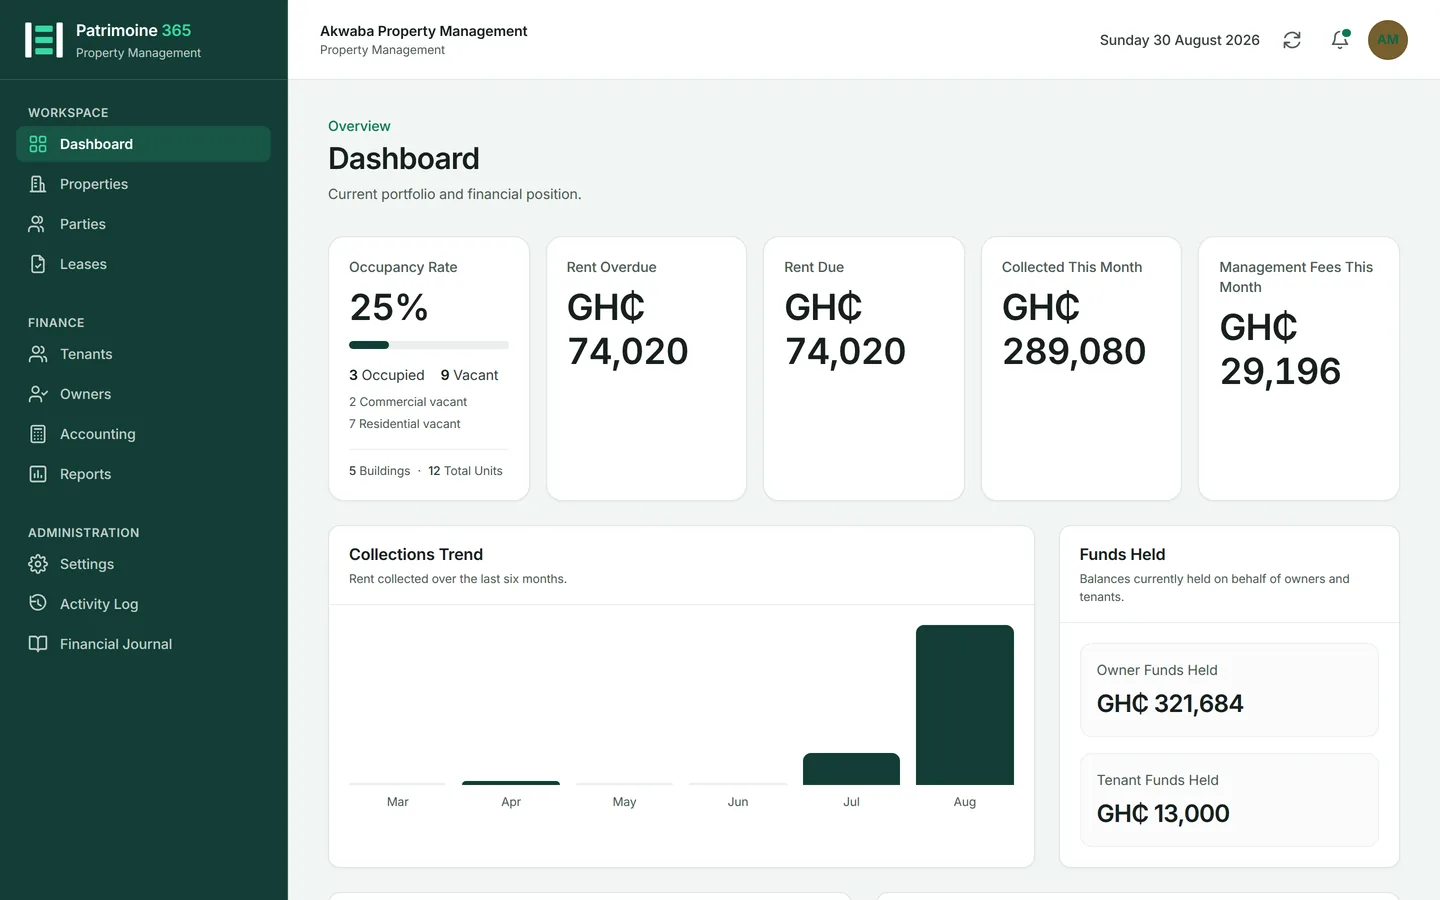
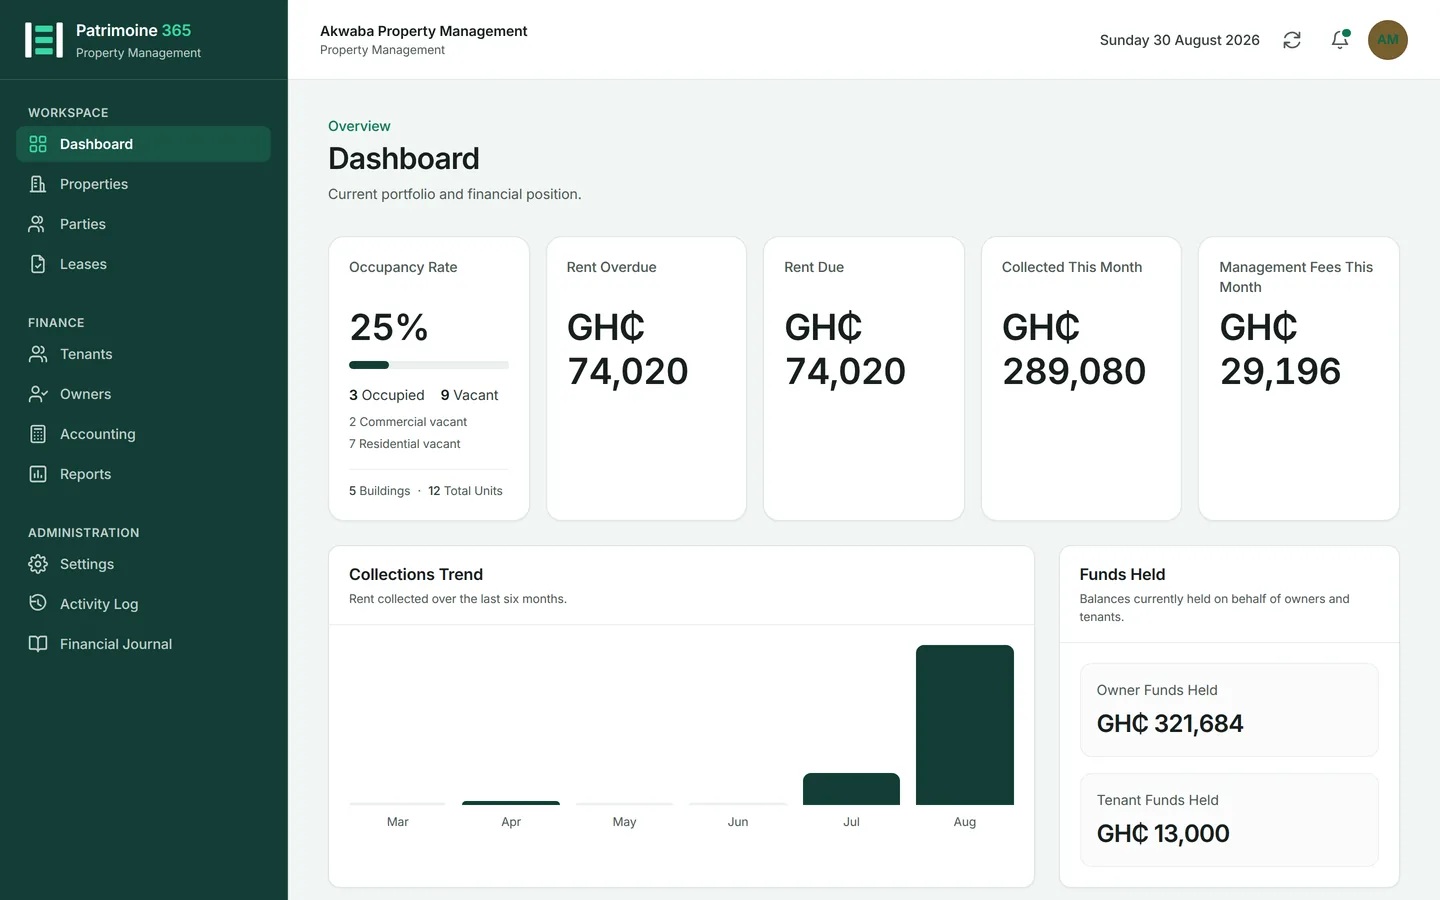
A capture that refuses to photograph an unstyled page
Pre-production runs two containers side by side for a minute or two after a
deploy. The HTML can come from the new one, naming a bundle the old one has
never heard of, and the stylesheet then 404s. The result is a perfectly
valid screenshot of the application with no CSS at all: blue underlined
links down the left where the sidebar should be.

One of those was taken, converted and written into the guide. It was caught
by sampling the sidebar pixel of all 144 images rather than by looking at
them, which is not a method that scales.

Both capture scripts now check that the body's computed font is Inter — it
can only be if the stylesheet arrived — and throw rather than photograph.

The dashboard is re-shot in both languages with the tile labels aligned, and
docs/DESIGN.md carries the real file sizes: app.css was 8,836 lines and the
whole system is 6,046.

diff --git a/docs/DESIGN.md b/docs/DESIGN.md
@@ -46,13 +46,17 @@ Green is the dominant — the sidebar, the primary button, headings.
 
 ```
 resources/css/
-  fonts.css        Inter, self-hosted, two files for every weight
-  scale.css        the ramps, the type scale, radii, shadows, panel variants
-  tokens.css       the semantic --pm-* tokens, light and dark
-  components.css   Untitled UI component anatomy
-  app.css          page structure only — grids, shells, calendar, cropper
+  fonts.css          47   Inter, self-hosted, two files for every weight
+  scale.css         209   the ramps, the type scale, radii, shadows, variants
+  tokens.css        270   the semantic --pm-* tokens, light and dark
+  components.css  1,776   Untitled UI component anatomy
+  app.css         3,744   page structure — grids, shells, calendar, cropper
   hidden-guards.css / flags.css   generated
 ```
+
+app.css alone was **8,836 lines** before v1.0.37. The whole system is 6,046
+now, and two thirds of what went is not missing — it is the same thing said
+once instead of twelve times.
 
 Changing how the product looks means editing **tokens.css**. Changing what a
 button *is* means editing **components.css**. `app.css` lays pages out and
